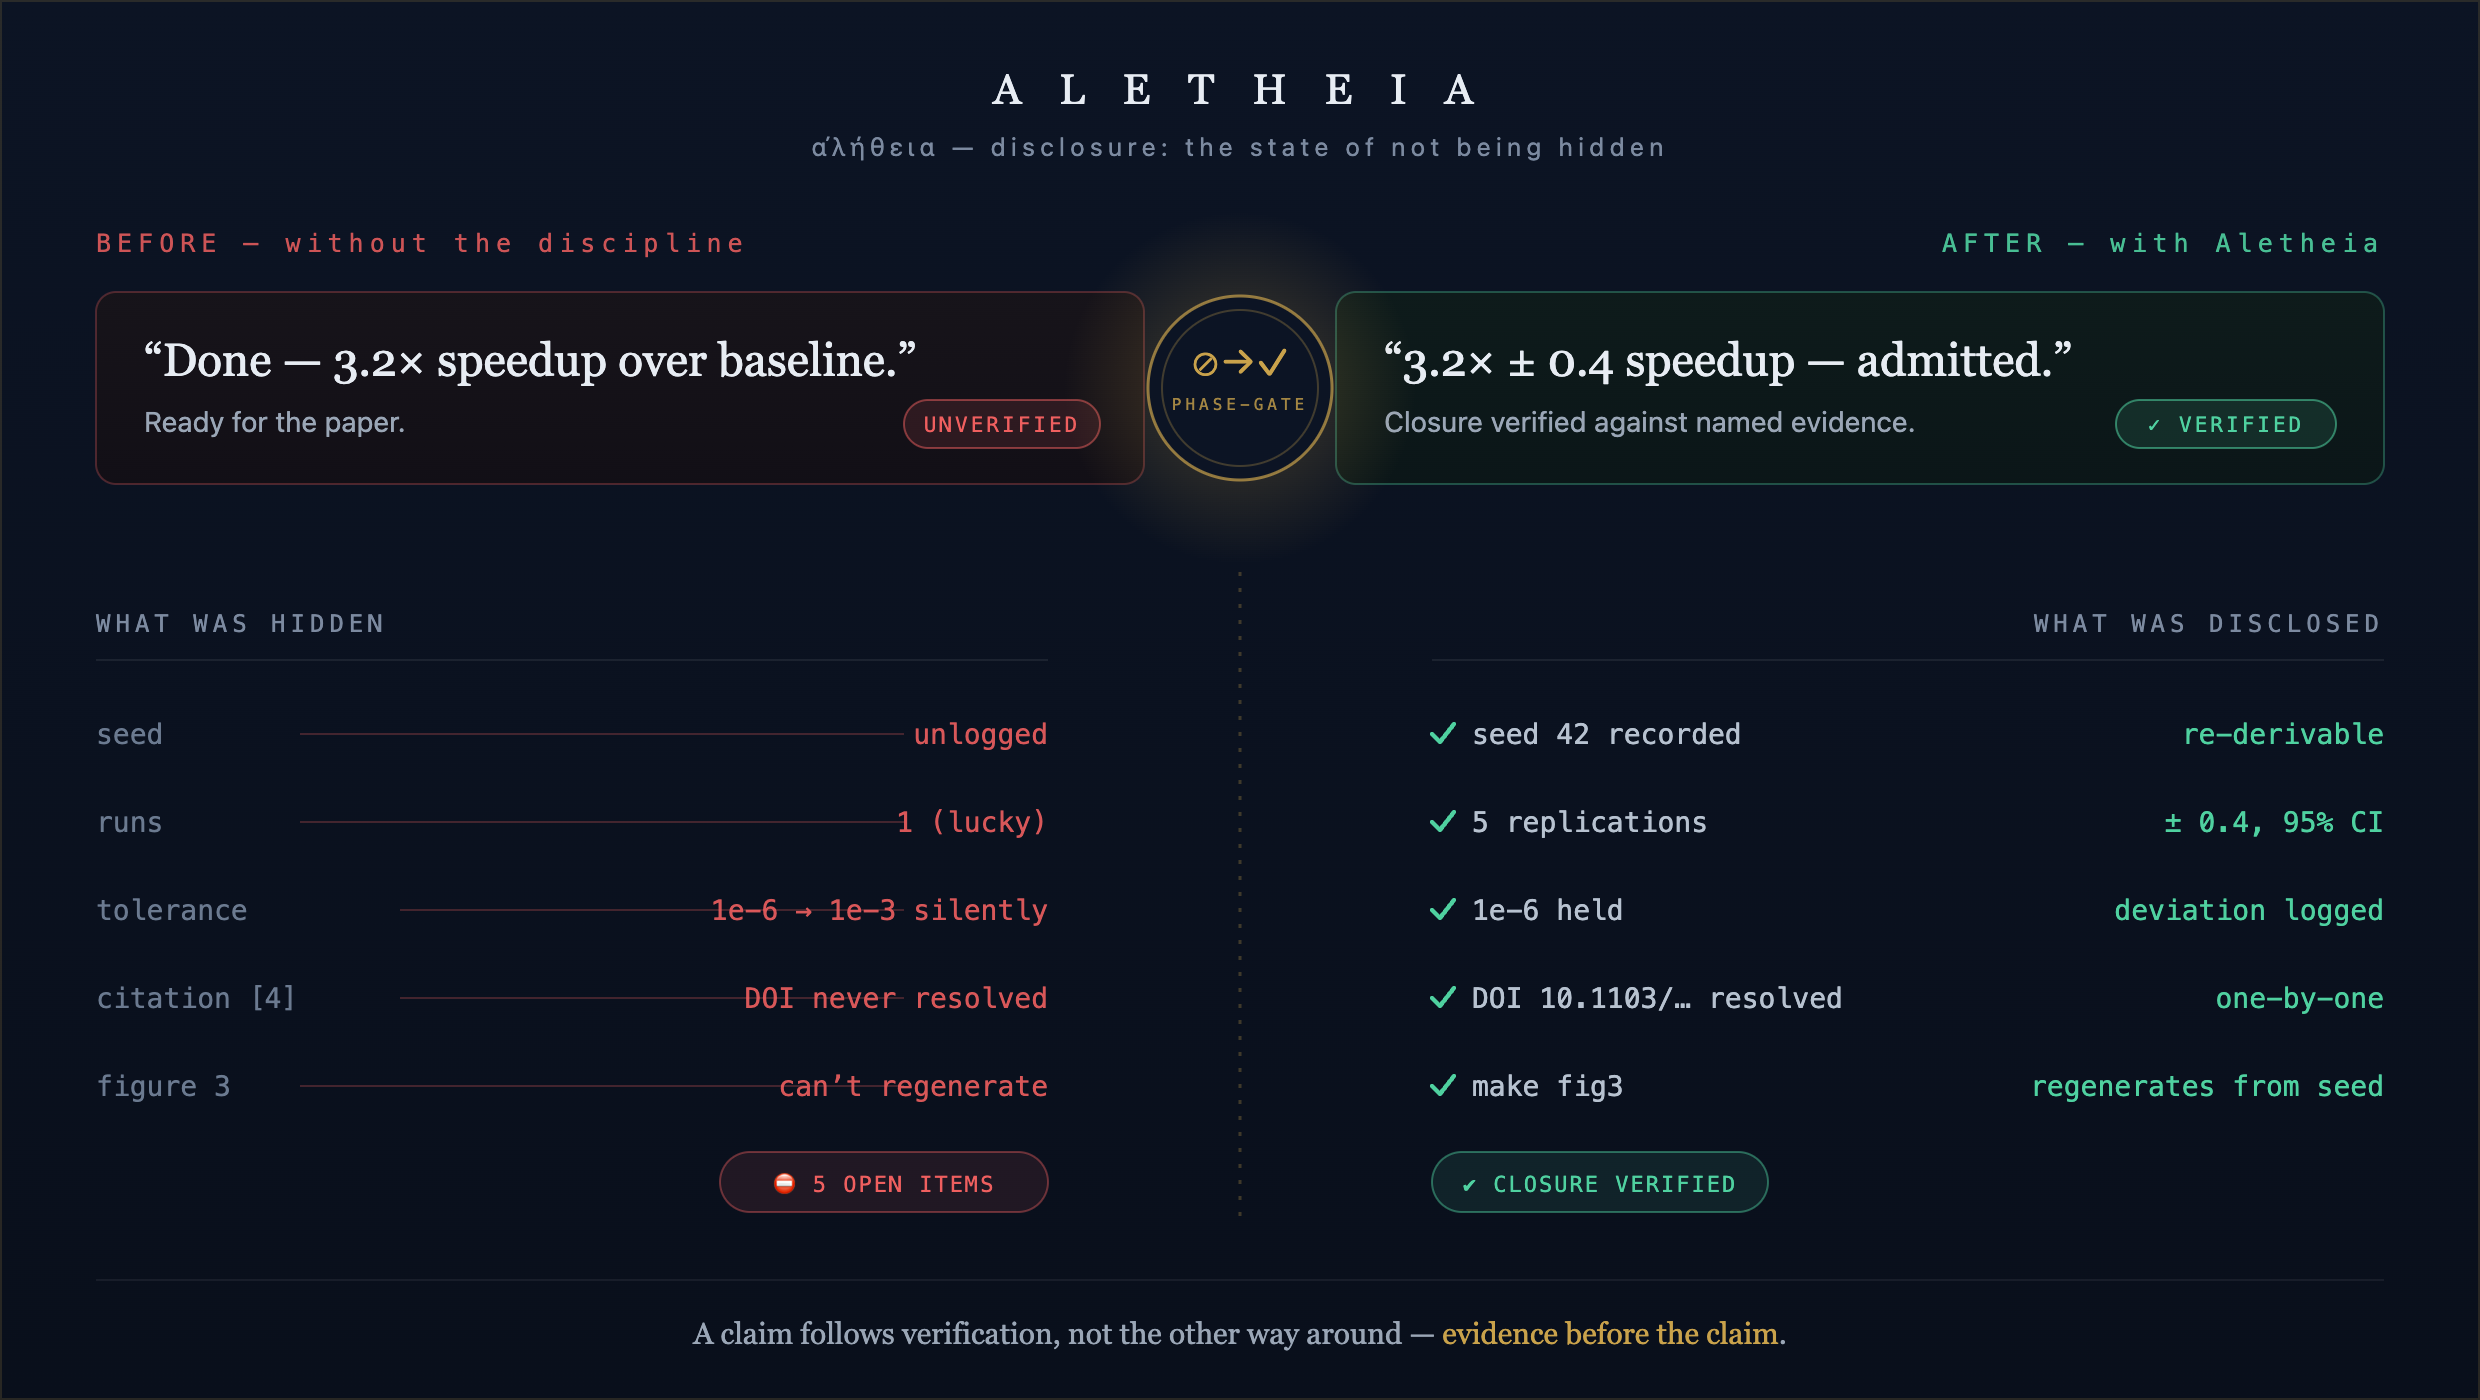
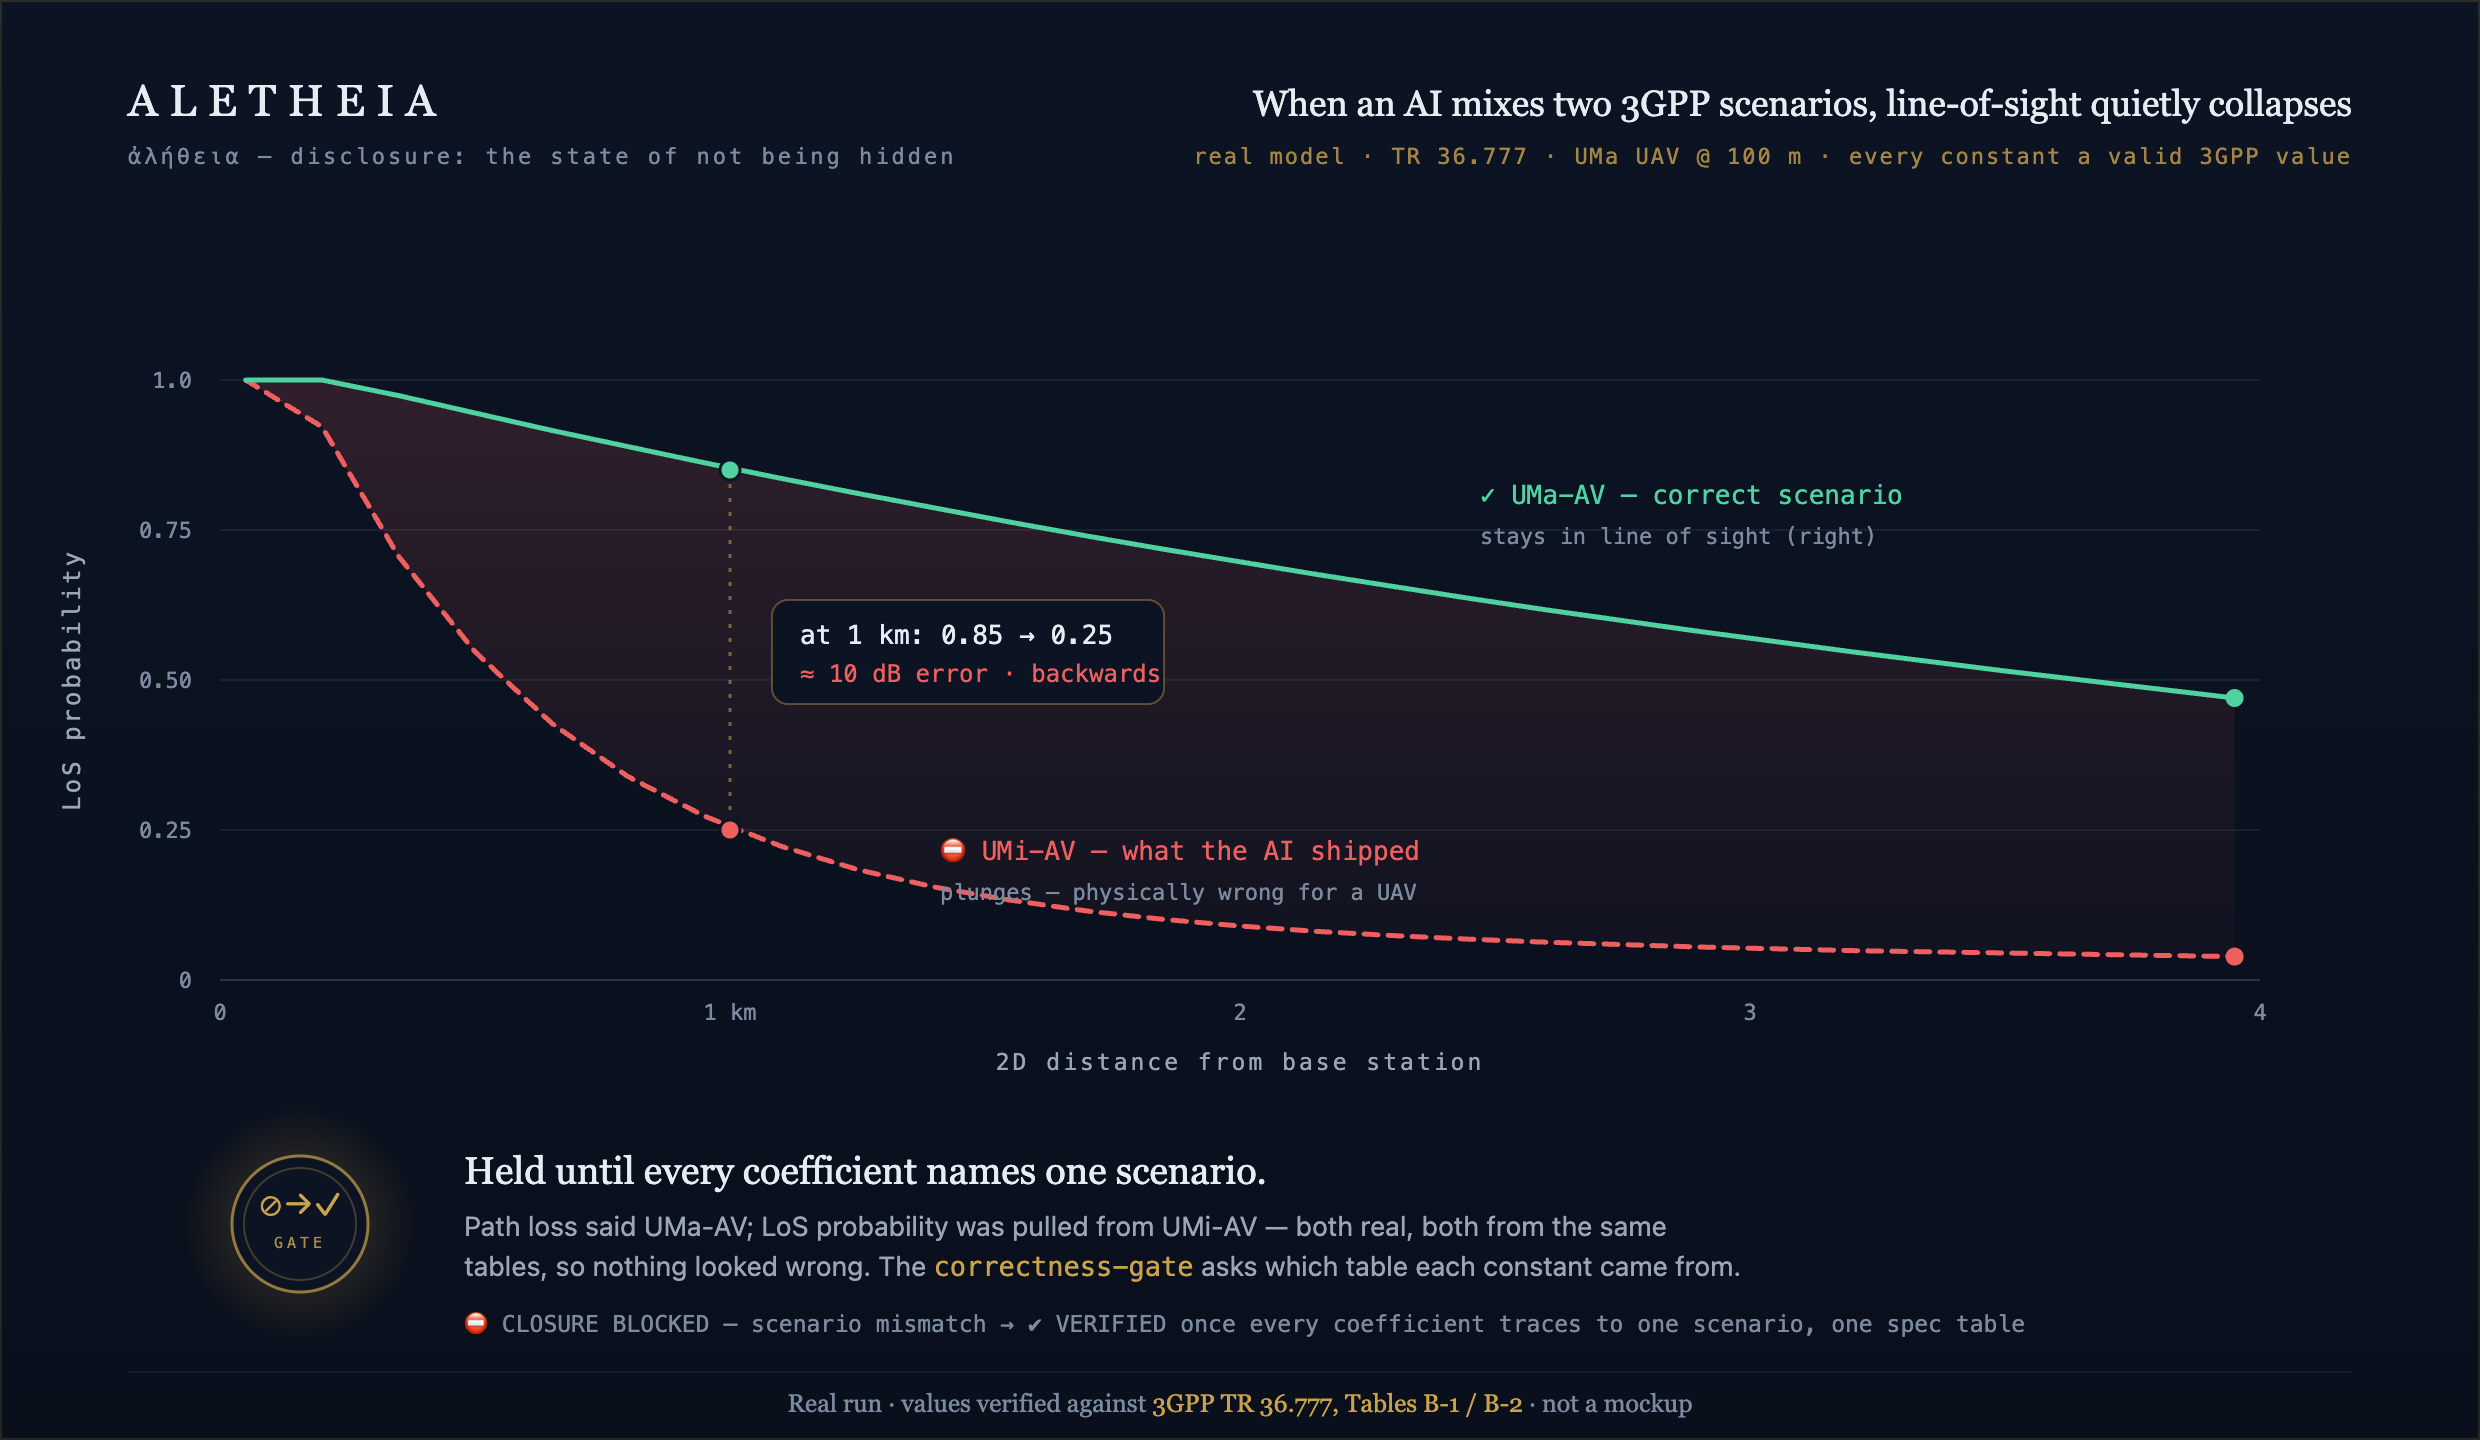
feat: real 3GPP worked example + data-driven before/after chart
Replaces the illustrative schematic with a REAL case, grounded end-to-end:

- examples/a2g-pathloss-3gpp.md: first non-fictional worked example. An
  AI-generated 3GPP TR 36.777 A2G path-loss model that mixed UMa path loss
  with UMi LoS-probability parameters — surface-correct, a 10 dB error.
  Every coefficient verified against TR 36.777 Tables B-1/B-2; the numbers
  come from a script that was actually run.
- assets/before-after.{svg,png}: redesigned as a real data chart — the two
  LoS-probability curves (correct UMa vs the AI's UMi) diverging with
  distance, the gap shaded as the silent error, a 1 km callout, the gate
  verdict, and spec provenance. No invented numbers.
- README + examples/README: point to the real example; mark the other five
  examples as fictional, this one as real.

diff --git a/examples/a2g-pathloss-3gpp.md b/examples/a2g-pathloss-3gpp.md
@@ -1,0 +1,112 @@
+# Real worked example — a subtle AI parameter-mismatch, caught at the gate
+
+> Unlike the other pages in this folder, **this example is real, not fictional.** It reproduces
+> an actual failure mode reported by a researcher: an AI-generated air-to-ground (A2G) path-loss
+> model that mixed 3GPP scenario parameters. Every number below is either quoted from the
+> primary standard or produced by a script that was actually run — see *Provenance*.
+
+## The scenario
+
+A model for a cellular-connected UAV (aerial UE) link is built from **3GPP TR 36.777**
+("Study on Enhanced LTE Support for Aerial Vehicles", Release 15, V15.0.0). The spec gives
+**separate tables per deployment scenario** — Urban Macro (UMa-AV), Urban Micro (UMi-AV),
+Rural Macro (RMa-AV) — for two things:
+
+- **Path loss** — Table B-2
+- **LoS probability** — Table B-1
+
+The claim to be admitted: *"A2G path-loss model for a UMa UAV link at h = 100 m — done."*
+
+## The rot (surface-correct, hard to catch)
+
+The generated model computed **path loss with the UMa-AV formula** but pulled the
+**LoS-probability parameters from the UMi-AV row**. Both are real 3GPP values; both live in
+adjacent rows of the same table — so nothing looks wrong on inspection. Verified against the
+primary source:
+
+| Quantity | Correct (UMa-AV) | Wrongly used (UMi-AV) | Source |
+|---|---|---|---|
+| Path loss (LoS) | `28.0 + 22·log₁₀(d₃D) + 20·log₁₀(f_c)` | *(kept correct)* | TR 36.777 Table B-2 |
+| LoS prob. `p₁` | `4300·log₁₀(h) − 3800` | `233.98·log₁₀(h) − 0.95` | TR 36.777 Table B-1 |
+| LoS prob. `d₁` | `max(460·log₁₀(h) − 700, 18)` | `max(294.05·log₁₀(h) − 432.94, 18)` | TR 36.777 Table B-1 |
+
+At h = 100 m that is `p₁, d₁ = 4800, 220` (UMa) versus `467, 155` (UMi) — a real, silent
+divergence.
+
+## What it actually does to the result
+
+The script below (UMa-AV, `f_c = 2 GHz`, `h_BS = 25 m`, `h = 100 m`) was run; its output is
+pasted verbatim underneath.
+
+```python
+import math
+fc, hBS, h = 2.0, 25.0, 100.0
+log10 = math.log10
+
+def uma_pl_los(d3D):   return 28.0 + 22*log10(d3D) + 20*log10(fc)            # Table B-2
+def uma_pl_nlos(d3D):  return -17.5 + (46 - 7*log10(h))*log10(d3D) + 20*log10(40*math.pi*fc/3)
+def plos(d2D, p1, d1):                                                       # Table B-1
+    return 1.0 if d2D <= d1 else d1/d2D + math.exp(-d2D/p1)*(1 - d1/d2D)
+
+p1_uma, d1_uma = 4300*log10(h) - 3800, max(460*log10(h) - 700, 18)          # correct
+p1_umi, d1_umi = 233.98*log10(h) - 0.95, max(294.05*log10(h) - 432.94, 18)  # bug
+
+for d2D in (200, 500, 1000, 2000, 4000):
+    d3D = math.sqrt(d2D**2 + (hBS-h)**2)
+    Pl, Pn = uma_pl_los(d3D), uma_pl_nlos(d3D)
+    ok  = plos(d2D, p1_uma, d1_uma); bug = plos(d2D, p1_umi, d1_umi)
+    tot_ok  = Pl*ok  + Pn*(1-ok)                                            # eq (15)
+    tot_bug = Pl*bug + Pn*(1-bug)
+    print(f"{d2D:>5} | P_LOS ok={ok:.4f} bug={bug:.4f} | Ptot ok={tot_ok:.2f} bug={tot_bug:.2f} dB  Δ={tot_bug-tot_ok:+.2f}")
+```
+
+```text
+  200 | P_LOS ok=1.0000 bug=0.9219 | Ptot ok=85.27  bug=86.07  dB  Δ=+0.80
+  500 | P_LOS ok=0.9446 bug=0.5467 | Ptot ok=94.28  bug=99.84  dB  Δ=+5.56
+ 1000 | P_LOS ok=0.8533 bug=0.2544 | Ptot ok=102.53 bug=112.69 dB  Δ=+10.15
+ 2000 | P_LOS ok=0.6967 bug=0.0903 | Ptot ok=112.70 bug=124.80 dB  Δ=+12.10
+ 4000 | P_LOS ok=0.4657 bug=0.0390 | Ptot ok=125.54 bug=135.34 dB  Δ=+9.80
+```
+
+The mismatch is **not** cosmetic: at 1 km it flips LoS probability from 0.85 to 0.25 and shifts
+total propagation loss by **10 dB** (a 10× power error), and it is physically backwards — a
+high-altitude UAV should have *higher* LoS probability, not lower.
+
+## How Aletheia holds it at the gate
+
+The claim hits the [`correctness-gate`](../skills/core/correctness-gate/SKILL.md): a critical
+module (the propagation model) was touched, so it must be verified against a **named ground
+truth** — here, the 3GPP tables. Three disciplines converge:
+
+- **`correctness-gate`** — "verify against the named authority." The gate asks: *which table did
+  each coefficient come from?* Answering it forces the mismatch into the open.
+- **[`canonical-params`](../skills/core/canonical-params/SKILL.md)** — a scenario (UMa vs UMi) is
+  a protected choice. Silently drawing path loss from one scenario and LoS probability from
+  another is a canonical-parameter violation, not a free implementation detail.
+- **[`lit-anchor`](../skills/extended/lit-anchor/SKILL.md)** — every constant is resolved to its
+  exact source, one by one. `4300·log₁₀(h) − 3800` traces to Table B-1 *UMa-AV*;
+  `233.98·log₁₀(h) − 0.95` traces to Table B-1 *UMi-AV*. Two scenarios in one model → **OPEN**.
+
+**Gate verdict:** `⛔ CLOSURE BLOCKED — 1 OPEN item: scenario-consistency (path loss = UMa-AV,
+LoS probability = UMi-AV; both must name the same scenario).`
+
+## Closing the gate
+
+Fix: pull LoS probability from the **UMa-AV** row (`p₁ = 4300·log₁₀(h) − 3800`,
+`d₁ = max(460·log₁₀(h) − 700, 18)`), add a consistency check asserting all propagation
+parameters name one scenario, and record the spec table for each in the run's evidence.
+
+**Gate verdict:** `✔ CLOSURE VERIFIED — path loss and LoS probability both UMa-AV (TR 36.777
+Tables B-2 / B-1), scenario-consistency test passing, each coefficient spec-anchored.`
+
+The claim now follows verification, not the other way around.
+
+## Provenance
+
+- **Primary source:** 3GPP TR 36.777 V15.0.0 (2017-12), *Study on Enhanced LTE Support for
+  Aerial Vehicles*, Annex B — Table B-1 (LoS probability) and Table B-2 (pathloss models).
+  Every coefficient in the tables above was read directly from that document.
+- **Numbers:** produced by the script above, executed as shown; the output block is verbatim.
+- **Honesty note:** the UMi-AV coefficients were first encountered as an AI-synthesized answer
+  and were **not** trusted until confirmed against the primary source — the same discipline this
+  example is about.

diff --git a/examples/README.md b/examples/README.md
@@ -1,15 +1,24 @@
 # Worked examples
 
-Aletheia's skills are **domain-free** — they name no field, no tool, no equation. These
-**fictional** examples show the same disciplines instantiated in real computational workflows.
-They are illustrations, not real repositories.
+Aletheia's skills are **domain-free** — they name no field, no tool, no equation. Most examples
+below are **fictional** — illustrations, not real repositories. One is real (see below).
 
 The pack's Core was harvested from, and its Extended tier stress-tested against, a real
 computational-research repository. That repository is **not named or reproduced here**, and no
 skill or template contains a domain term — the portability gate (`grep` over `skills/` and
 `templates/` for domain vocabulary must return zero) enforces this by construction.
 
-## Full examples
+## Real worked example
+
+One page is **not** fictional. It reproduces an actual AI failure mode — a 3GPP TR 36.777
+air-to-ground path-loss model that silently mixed UMa and UMi scenario parameters — with real
+spec-verified constants and a script that was actually run, and shows the gate catching it.
+
+| Example | Domain | Signature skill it spotlights |
+|---|---|---|
+| [A2G path-loss parameter mismatch (real)](a2g-pathloss-3gpp.md) | Wireless / telecom | `correctness-gate` + `canonical-params` + `lit-anchor` |
+
+## Full (fictional) examples
 
 | Example | Domain | Signature skill it spotlights |
 |---|---|---|

diff --git a/README.md b/README.md
@@ -37,11 +37,11 @@ discipline it triggers — with escalation conditions, so a small change never i
 ceremony.
 
 <p align="center">
-  <img src="assets/before-after.png" alt="Before and after Aletheia: a hollow 'done' claim built on hidden reproducibility rot — unlogged seed, one lucky run, silently loosened tolerance, an unverified DOI, an unregenerable figure — becomes a gate-verified closure where each item is disclosed and backed by named evidence." width="100%">
+  <img src="assets/before-after.png" alt="Before and after Aletheia: a real AI-generated 3GPP TR 36.777 A2G path-loss model silently mixed UMa path loss with UMi LoS-probability parameters — surface-correct, a 10 dB error — and is held at the gate until every coefficient is traced to one scenario and one spec table." width="100%">
 </p>
 
 <p align="center">
-  <sub>What the discipline changes: a confident but unverifiable <em>“done”</em> is held at the gate until every hidden assumption is disclosed and evidenced.</sub>
+  <sub>A <strong>real</strong> case (<a href="examples/a2g-pathloss-3gpp.md">worked out here</a>): an AI mixed 3GPP scenario parameters — surface-correct, a 10 dB error — and is held at the gate until every coefficient is traced to one scenario and one spec table.</sub>
 </p>
 
 ## Motivation